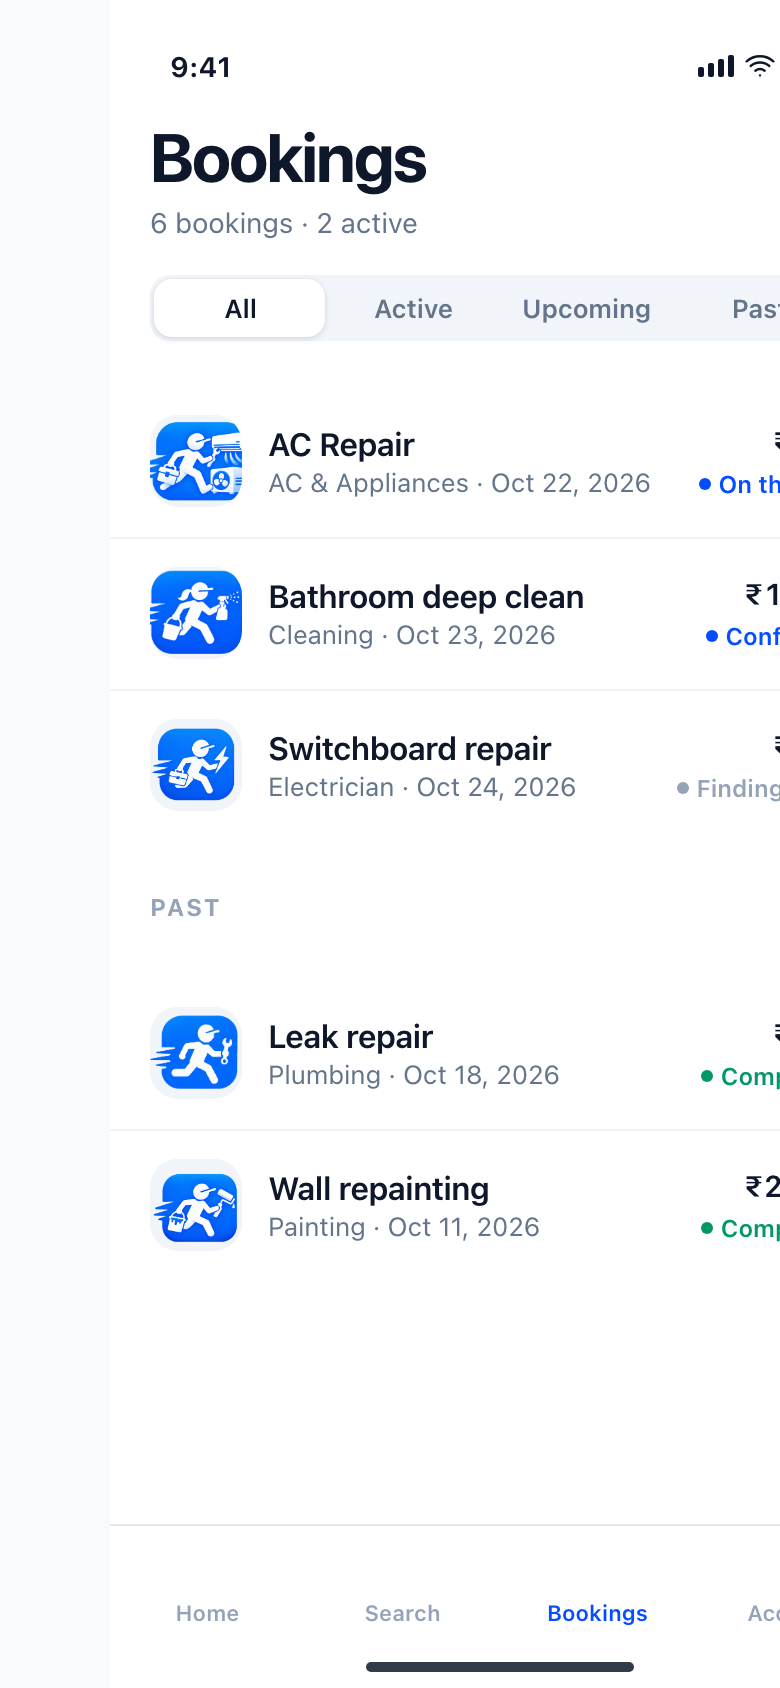
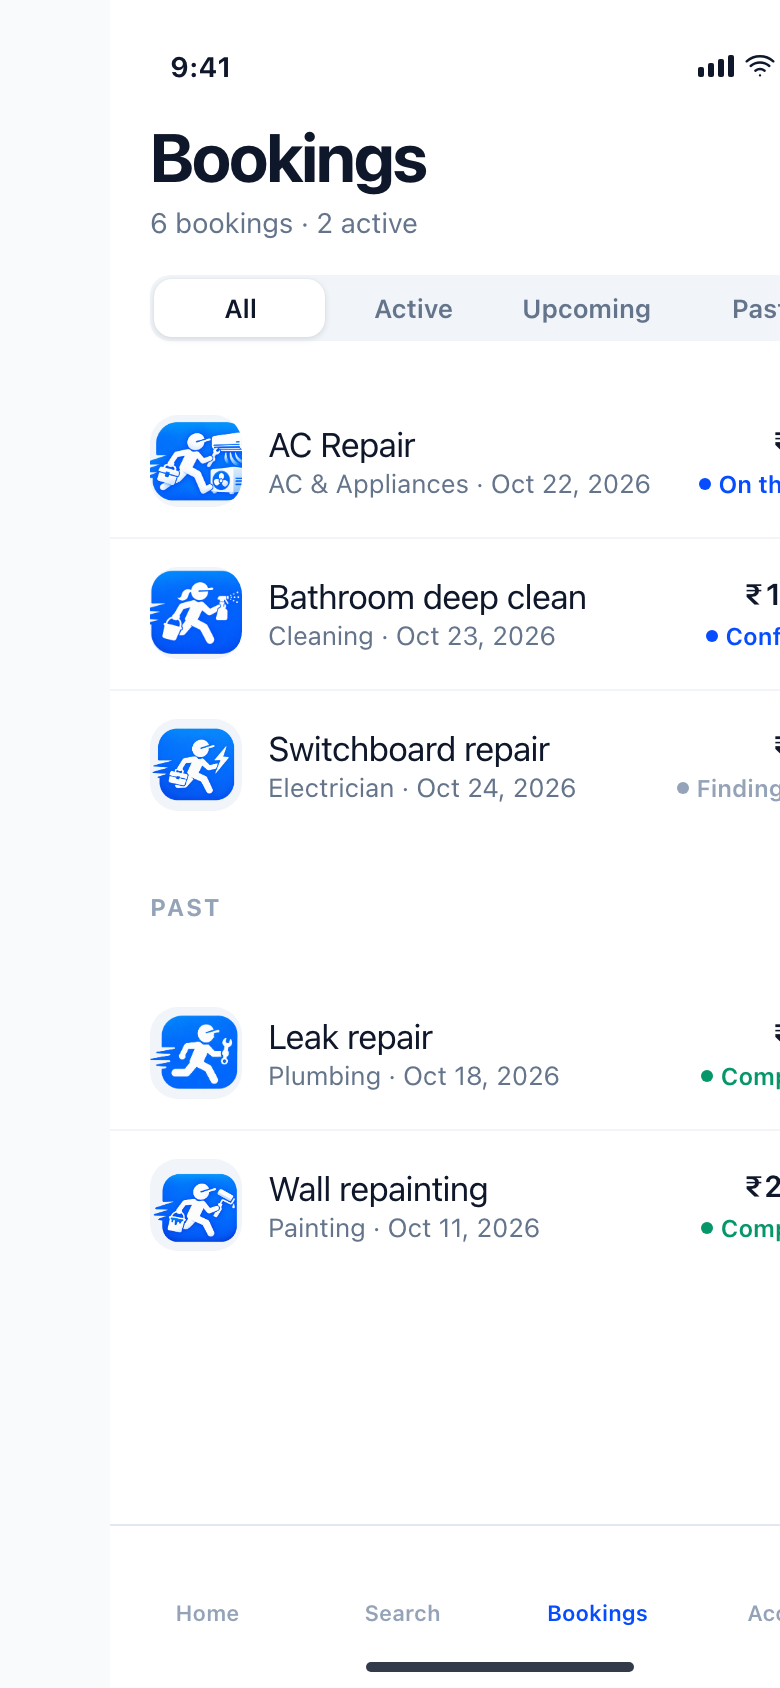
docs(mockups): set the bookings name in regular weight
Matches the built screen: the name in a row is regular weight, and the
amount and the status carry the emphasis.

diff --git a/docs/mockups/bookings-premium/preview.html b/docs/mockups/bookings-premium/preview.html
@@ -218,7 +218,7 @@
   .c-row + .c-row::before{content:"";position:absolute;left:0;right:0;top:0;height:1px;background:var(--ink-100)}
   .c-row .art{width:46px;height:46px;border-radius:14px}
   .c-row-txt{flex:1;min-width:0}
-  .c-row-txt b{display:block;font-size:16px;font-weight:600;color:var(--ink-900);letter-spacing:-.01em;
+  .c-row-txt b{display:block;font-size:17px;font-weight:400;color:var(--ink-900);letter-spacing:-.01em;
     white-space:nowrap;overflow:hidden;text-overflow:ellipsis}
   .c-row-txt span{display:block;font-size:13px;color:var(--ink-500);margin-top:2px}
   .c-row-end{text-align:right;flex:none}
